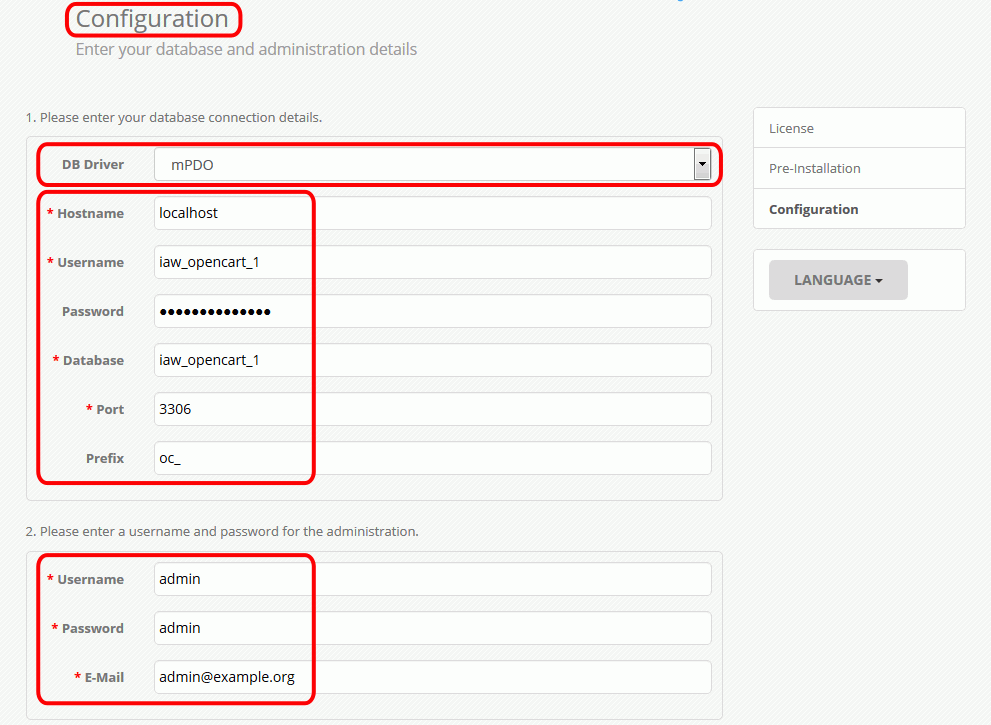
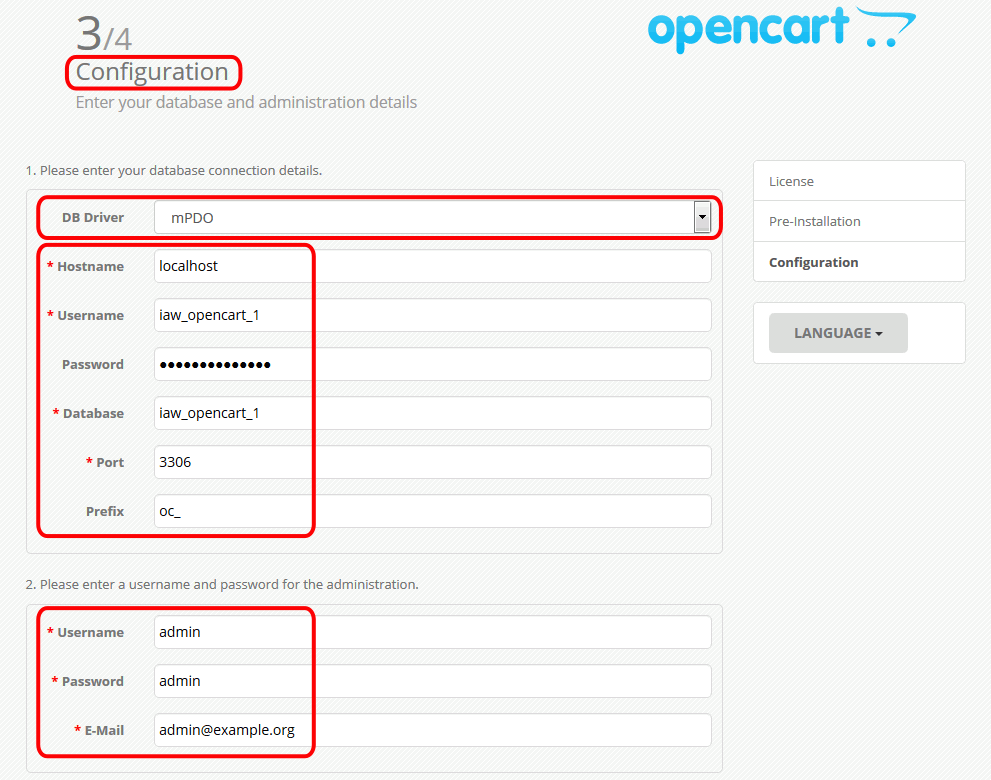
Añado cambio directorio storage tras instalación en OpenCart 1

diff --git a/lecciones/opencart-1-soluciones.html b/lecciones/opencart-1-soluciones.html
@@ -143,7 +143,7 @@ extension=php_mysql.dll
             <p>Password: <span class="codigo-modificacion">admin</span></p>
             <p>E-Mail: <span class="codigo-modificacion">admin@example.com</span></p>
             <p class="captura">
-              <img src="../img/opencart/1-2-s-6-instalacion.png" alt="OpenCart. Instalación." width="991" height="725" />
+              <img src="../img/opencart/1-2-s-6-instalacion.png" alt="OpenCart. Instalación." width="991" height="780" />
             </p>
           </li>
         </ol>
@@ -182,7 +182,17 @@ extension=php_mysql.dll
           <img src="../img/opencart/1-3-s-3-inicio-admin.png" alt="OpenCart. Inicio. Usuario adminstrador" width="991" height="460" />
         </p>
       </li>
-      <li>Para cerrar la sesión en OpenCart como usuario registrado, hay que hacer clic en Logout.</li>
+      <li>Al entrar como administrador, OpenCart muestra un aviso de seguridad, en el que solicita mover el directorio de almacenamiento a un directorio cualquiera, no accesible vía web.
+        <p class="captura">
+          <img src="../img/opencart/1-3-s-4-storage.png" alt="OpenCart. Cambio de directorio storage" width="1008" height="440" />
+        </p>
+        <p>Elija la nueva ubicación del directorio storage (por ejemplo al directorio <strong>Mis documentos &gt; IAW Nombre-de-alumno</strong>) y haga clic en el botón Move.</p>
+        <p class="captura">
+          <img src="../img/opencart/1-3-s-5-storage.png" alt="OpenCart. Cambio de directorio storage" width="1008" height="500" />
+        </p>
+        <p>A continuación borre el directorio creado en la instalación <strong>system/storage</strong>.</p>
+      </li>
+      <li>Para cerrar la sesión en OpenCart como usuario registrado, haga clic en Logout.</li>
     </ul>
   </section>
 
@@ -349,7 +359,7 @@ define('HTTPS_CATALOG', 'http://AAA.BBB.CCC.DDD/opencart/');
   </section>
 
   <footer>
-    <p class="ultmod">Última modificación de esta página: 9 de enero de 2018</p>
+    <p class="ultmod">Última modificación de esta página: 13 de enero de 2018</p>
 
     <p class="licencia"><a rel="license" href="https://creativecommons.org/licenses/by-sa/4.0/deed.es_ES"><img src="../varios/iconos/icono-cc-by-sa.svg" alt="Licencia Creative Commons" title="Licencia Creative Commons BY-SA" width="120" height="42" /></a><br />
       Esta página forma parte del curso <strong><a href="http://www.mclibre.org/consultar/webapps/">Aplicaciones web</a></strong> por <a href="http://www.mclibre.org/" rel="author">Bartolomé Sintes Marco</a><br />

diff --git a/lecciones/opencart-1.html b/lecciones/opencart-1.html
@@ -149,6 +149,7 @@
           <img src="../img/opencart/1-3-s-3-inicio-admin.png" alt="OpenCart. Inicio. Usuario adminstrador" width="991" height="460" />
         </p>
       </li>
+      <li>Al entrar como administrador, OpenCart muestra un aviso de seguridad, en el que solicita mover el directorio de almacenamiento a un directorio cualquiera, no accesible vía web. Mueva el directorio de almacenamiento por ejemplo al directorio <strong>Mis documentos &gt; IAW Nombre-de-alumno</strong>. A continuación borre el directorio creado en la instalación <strong>system/storage</strong>.</li>
       <li>Cierre la sesión como administrador y vuelva a la página de inicio.</li>
     </ol>
   </section>
@@ -274,7 +275,7 @@
   </section>
 
   <footer>
-    <p class="ultmod">Última modificación de esta página: 9 de enero de 2018</p>
+    <p class="ultmod">Última modificación de esta página: 13 de enero de 2018</p>
 
     <p class="licencia"><a rel="license" href="https://creativecommons.org/licenses/by-sa/4.0/deed.es_ES"><img src="../varios/iconos/icono-cc-by-sa.svg" alt="Licencia Creative Commons" title="Licencia Creative Commons BY-SA" width="120" height="42" /></a><br />
       Esta página forma parte del curso <strong><a href="http://www.mclibre.org/consultar/webapps/">Aplicaciones web</a></strong> por <a href="http://www.mclibre.org/" rel="author">Bartolomé Sintes Marco</a><br />

diff --git a/otros/configuracion.html b/otros/configuracion.html
@@ -98,7 +98,7 @@
 
       <hr class="corta" />
 
-      <p>También se puede utilizar el editor Eclipse for PHP developers, aunque como Eclipse PHP revisa y comprueba todos los archivos, a medida que vayamos instalando aplicaciones web, ese proceso tardará cada vez más tiempo.
+      <p>También se puede utilizar el editor Eclipse for PHP developers, aunque como Eclipse PHP revisa y comprueba todos los archivos, a medida que vayamos instalando aplicaciones web, ese proceso tardará cada vez más tiempo.</p>
 
       <p>Si se quiere utilizar Eclipse PHP, se recomienda crear un workspace específico. Se recomienda:</p>
       <ul>
